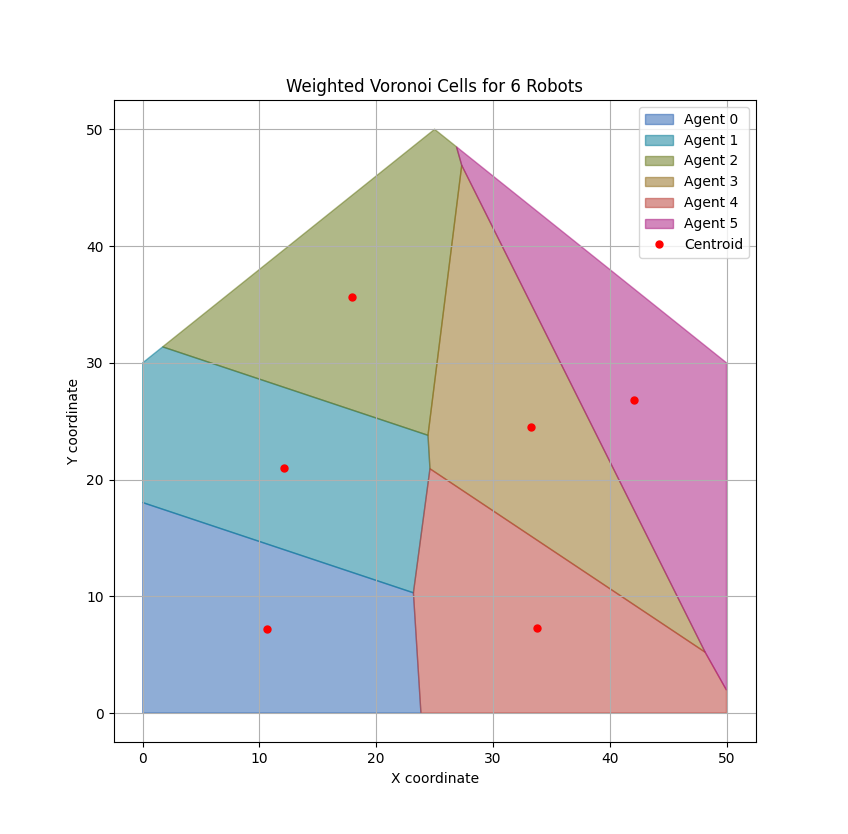
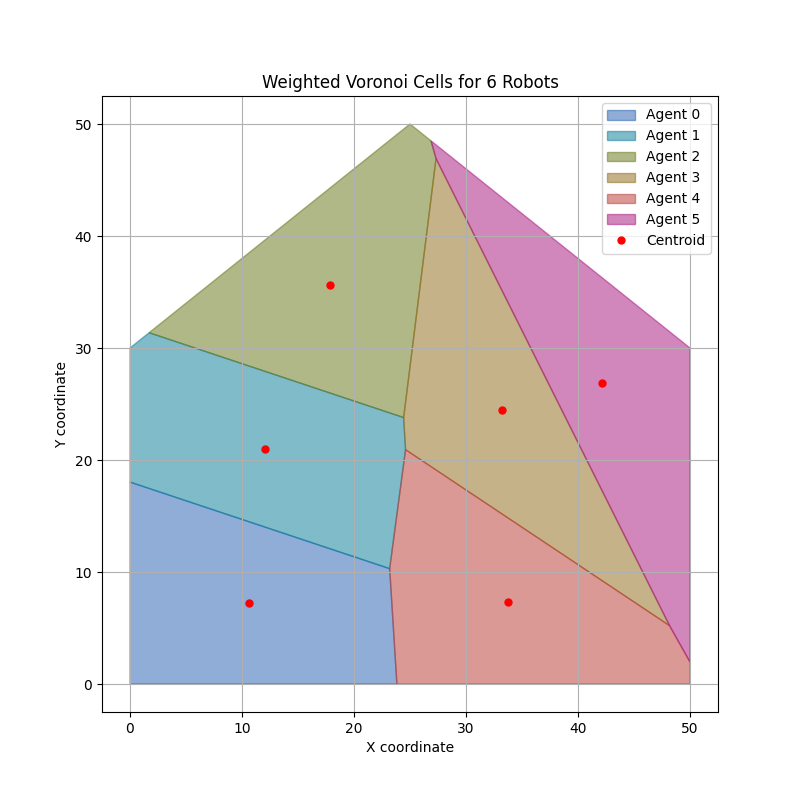
after plotting

diff --git a/main.py b/main.py
@@ -29,20 +29,25 @@ from simulation import SimulationState, UAV  # type: ignore  # external module
 # Initial agent positions (id → (x, y))
 INITIAL_POSITIONS: Dict[int, Tuple[float, float]] = {
     0: (1, 1),
-    1: (2, 4),
-    2: (3, 7),
-    3: (19, 5),
-    4: (17, 2),
-    5: (49, 20),
+    # 1: (2, 4),
+    # 2: (3, 7),
+    # 3: (19, 5),
+    # 4: (17, 2),
+    # 5: (49, 20),
 }
 
 # Workspace: L‑shaped polygon defined counter‑clockwise
 WORKSPACE_COORDS: List[Tuple[float, float]] = [
+    # (0, 0),
+    # (50, 0),
+    # (50, 30),
+    # (25, 50),
+    # (0, 30),
     (0, 0),
-    (50, 0),
-    (50, 30),
-    (25, 50),
-    (0, 30),
+    (0, 18.027),
+    (23.18, 10.3),
+    (23.83, 0),
+    (0, 0),
 ]
 
 # ETH corporate color hex codes
@@ -109,9 +114,9 @@ def balance_power_cells(sim_state: SimulationState) -> None:
 
 def plot_results(sim_state: SimulationState) -> None:
     """Plot power cells, grid points, and coverage paths."""
-    fig, ax = plt.subplots(figsize=(20, 10))
+    fig, ax = plt.subplots(figsize=(8, 8))
     
-    figure, axs = plt.subplots(figsize=(12, 8))
+    figure, axs = plt.subplots(figsize=(8, 8))
 
     for agent_id in sim_state.get_agent_ids():
         cell = compute_power_cell(sim_state, agent_id)
@@ -120,29 +125,29 @@ def plot_results(sim_state: SimulationState) -> None:
 
         # Power‑cell polygon
         x, y = cell.exterior.xy
-        ax.fill(x, y, alpha=0.5, color=colors[agent_id % len(colors)])
+        ax.fill(x, y, alpha=0.4, label=f"Agent {agent_id}")
         axs.fill(x, y, alpha=0.5, color=colors[agent_id % len(colors)], label=f"Agent {agent_id}")
         
         # Centroid
         cx, cy = sim_state.centroids[agent_id]
-        ax.plot(cx, cy, "ro", markersize=5)
-        label = "Centroid" if agent_id == 5 else None
-        axs.plot(cx, cy, "ro", markersize=5, label=label)
+        # ax.plot(cx, cy, "ro", markersize=5)
+        # label = "Centroid" if agent_id == 5 else None
+        # axs.plot(cx, cy, "ro", markersize=5, label=label)
 
         # Raster grid and STC path
         grid = polygon_to_grid(cell, CELL_SIZE)
         if grid:
             gx, gy = zip(*grid)
             ax.plot(gx, gy, "o", markersize=4, color=colors[agent_id % len(colors)])
-            axs.plot(gx, gy, "o", markersize=4, color=colors[agent_id % len(colors)])
+            # axs.plot(gx, gy, "o", markersize=2, color=colors[agent_id % len(colors)])
 
             stc_path = compute_stc(grid)
             sx, sy = zip(*stc_path)
-            ax.plot(sx, sy, "k--", linewidth=1)
+            ax.plot(sx, sy, "k--", linewidth=1, label=f"Spanning tree")
 
             offset_path = offset_stc_path(stc_path, CELL_SIZE)
             ox, oy = zip(*offset_path.coords)
-            ax.plot(ox, oy, "-", linewidth=2, color=colors[agent_id % len(colors)])
+            ax.plot(ox, oy, "-", linewidth=2, color=colors[agent_id % len(colors)], label=f"Robot Path {agent_id}")
             
 
 
@@ -153,23 +158,22 @@ def plot_results(sim_state: SimulationState) -> None:
         print("Energy profile computed: ", Energy)
 
     ax.set_aspect("equal", adjustable="box")
-    ax.set_title(
-        f"Power Cells and Coverage Paths for {len(sim_state.get_agent_ids())} Agents"
-    )
+    # ax.set_title(
+    #     f"Power Cells and Coverage Paths for {len(sim_state.get_agent_ids())} Agents"
+    # )
+    ax.set_title(f"Spanning tree and robot path for Agent {agent_id}")
     ax.set_xlabel("X coordinate")
     ax.set_ylabel("Y coordinate")
     ax.grid(True)
     
     axs.set_aspect("equal", adjustable="box")
-    axs.set_title(
-        f"Grid cell adaptation{len(sim_state.get_agent_ids())} Robots"
-    )
+    # axs.set_title("Weighted Voronoi Cells for 6 Robots")
     axs.set_xlabel("X coordinate")
     axs.set_ylabel("Y coordinate")
-    axs.grid(True)
+    axs.grid(True)    
+    ax.legend(loc='upper right')
     plt.legend()
-    plt.show()
-    plt.savefig("WVC.png", dpi=300, bbox_inches='tight')
+    # plt.show()
     
     
 

diff --git a/robots.py b/robots.py
@@ -221,10 +221,22 @@ def create_speed_profile(
             speeds.append(min(max(cand, uav.v_min), uav.v_max))
     return speeds
 
+def create_const_speed_profile(
+    uav: UAV,
+    ring: LinearRing,
+    speed: float = 15.0,
+) -> List[float]:
+    """Create a constant speed profile for the UAV along the `ring`."""
+    if speed < uav.v_min or speed > uav.v_max:
+        raise ValueError(f"Speed {speed} is out of bounds [{uav.v_min}, {uav.v_max}]")
+
+    n = int(math.ceil(ring.length / 1.0))  # number of samples
+    return [speed] * n  # constant speed for each sample
+
 
 def compute_energy_profile(uav: UAV, ring: LinearRing) -> List[float]:
     """Compute energy profile for a UAV flying along `ring` at `interval` spacing."""
-    speeds = create_speed_profile(uav, ring, 1.0)  # default interval
+    speeds = create_const_speed_profile(uav, ring)
     Energy = 0.0
 
     for i in range(len(speeds)):
